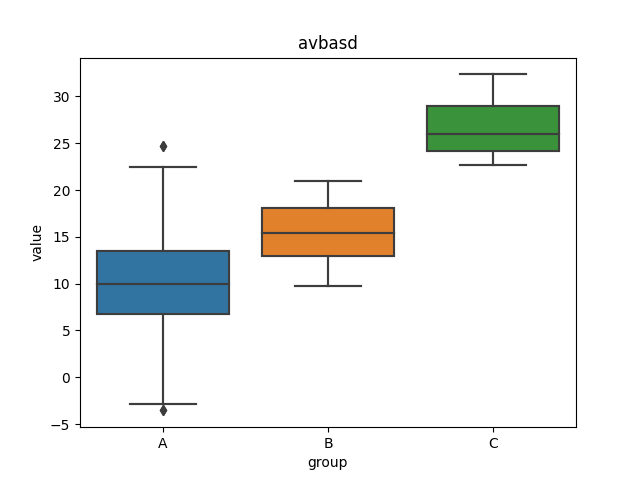
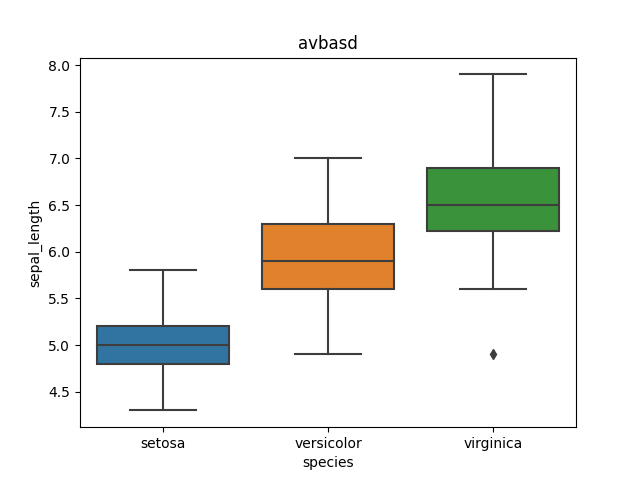
docstring added to plot and slit modification

diff --git a/numerical.py b/numerical.py
@@ -6,7 +6,32 @@ import os
 class Boxplot:
     def __init__(self, df, x=None, y=None, hue=None, order=None, hue_order=None, 
                  orient=None, color=None, palette=None, saturation=0.75, width=0.8, dodge=True, 
-                 fliersize=5, linewidth=None, whis=1.5, ax=None, title=None, **kwargs):
+                 fliersize=5, linewidth=None, whis=1.5, ax=None, title=None, no_of_obs=False, **kwargs):
+        """
+        This class is used to create boxplot figures using seaborn.
+
+        Args:
+            df (pandas.DataFrame): The dataframe containing the data to plot.
+            x, y (str): The names of two columns in df. The box plots will be for the y column grouped by x column values.
+            hue (str, optional): Column name for grouping the data by color/hue.
+            order, hue_order (list, optional): Order to plot the categorical levels in.
+            orient (str, optional): Orientation of the plot. 'v' or 'h'.
+            color (str, optional): Color for all of the elements.
+            palette (str, optional): Colors to use for the different levels of the hue variable.
+            saturation (float, optional): Proportion of the original saturation to draw colors.
+            width (float, optional): Width of a full element when not using hue nesting, or width of all the elements for one 
+                        level of the major grouping variable.
+            dodge (bool, optional): When hue nesting is used, whether elements should be shifted along the categorical axis.
+            fliersize (float, optional): Size of the markers used to indicate outlier observations.
+            linewidth (float, optional): Line width of the box outlines.
+            whis (float, optional): Proportion of the IQR past the low and high quartiles to extend the plot whiskers.
+            ax (matplotlib.axes, optional): Pre-existing axes for the plot. Otherwise, a new one is created.
+            title (str, optional): Title for the plot.
+            no_of_obs (bool, optional): Whether to show the number of observations in each box.
+            **kwargs: Additional keyword arguments are passed to the underlying seaborn boxplot function. Other keyword arguments 
+                        are passed through to matplotlib.axes.Axes.boxplot().
+
+        """
         self.__df = df
         self.__x = x
         self.__y = y
@@ -24,16 +49,24 @@ class Boxplot:
         self.__whis = whis
         self.__ax = ax
         self.__title = title
+        self.__no_of_obs = no_of_obs
         self.__kwargs = kwargs
 
-    def plot(self):
-        sns.boxplot(x=self.__x, y=self.__y, hue=self.__hue, data=self.__df, order=self.__order, 
-                    hue_order=self.__hue_order, orient=self.__orient, color=self.__color, 
-                    palette=self.__palette, saturation=self.__saturation, width=self.__width, 
-                    dodge=self.__dodge, fliersize=self.__fliersize, linewidth=self.__linewidth, 
-                    whis=self.__whis, ax=self.__ax, **self.__kwargs)
+        self.__plot()
 
-        if self.__ax:
+    def __plot(self):
+        """
+        This is a private method used to create the boxplot.
+
+        """
+        if not self.__ax:
+            self.__ax = sns.boxplot(x=self.__x, y=self.__y, hue=self.__hue, data=self.__df, order=self.__order, 
+                        hue_order=self.__hue_order, orient=self.__orient, color=self.__color, 
+                        palette=self.__palette, saturation=self.__saturation, width=self.__width, 
+                        dodge=self.__dodge, fliersize=self.__fliersize, linewidth=self.__linewidth, 
+                        whis=self.__whis, ax=self.__ax, **self.__kwargs)
+
+        if self.__ax and self.__no_of_obs:
             nobs = self.__df.groupby(self.__x).size().values
             nobs = [str(x) for x in nobs.tolist()]
             nobs = ["n: " + i for i in nobs]
@@ -42,16 +75,24 @@ class Boxplot:
             medians = self.__df.groupby(self.__x)[self.__y].median().values
             for tick, label in zip(pos, self.__ax.get_xticklabels()):
                 self.__ax.text(pos[tick], medians[tick] + 0.1, nobs[tick], horizontalalignment='center', 
-                             size='medium', color='w', weight='semibold')
+                             size='medium', color='black', weight='semibold')
 
         if self.__title:
             plt.title(self.__title)
 
     def save_plot(self, file_name, folder=None):
+        """
+        This method saves the created plot in the specified directory.
+
+        Args:
+            file_name (str): Name of the file
+            folder (str, optional): Name of the directory. If not available, it creates one.
+
+        """
         if folder:
             if not os.path.exists(folder):
                 os.makedirs(folder)
             file_name = os.path.join(folder, file_name)
-        self.plot()
+        self.__plot()
         plt.savefig(file_name)
         plt.show()
